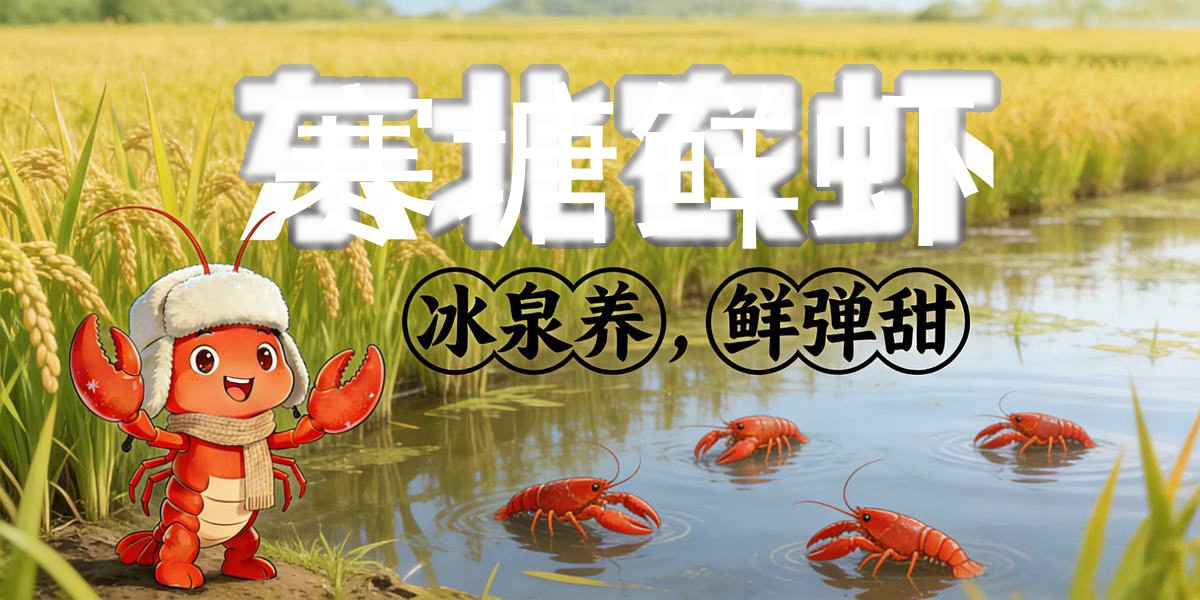
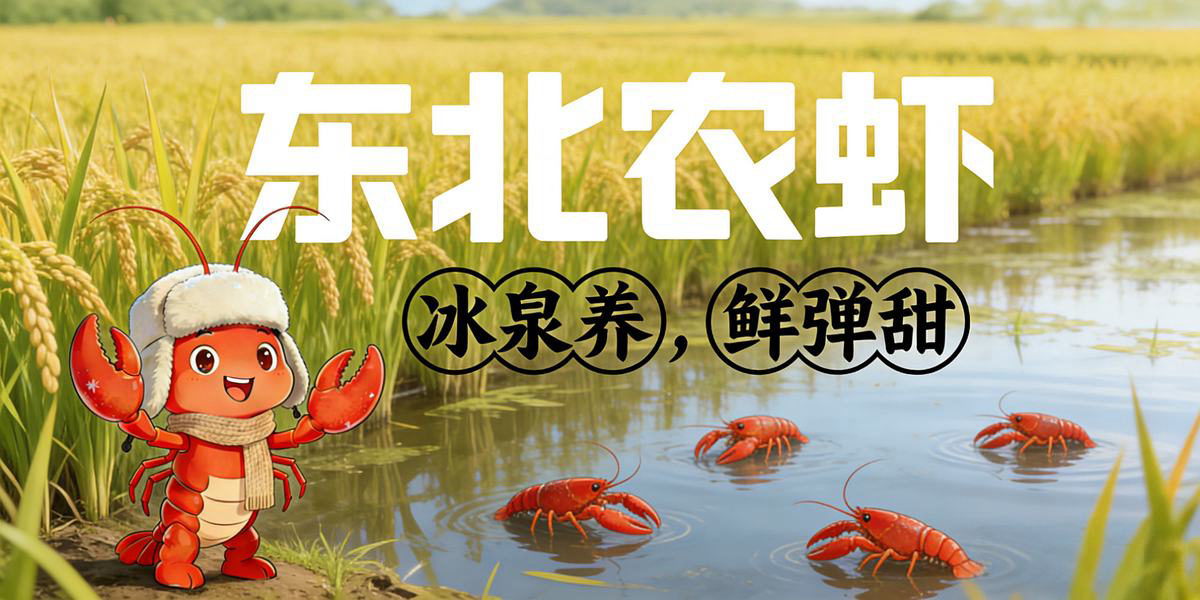
fix: 按优化方案3换回稻田广告横幅原图+CTA背景加暖色蒙版
- assets/banner-paddy.jpg: 换回6de500c原版(东北农虾原图),去掉重建版生硬白边标题
- css/brand.css: banner-strip 背景加暖色渐变蒙版,消除背景文字与前景内容重叠

Changed region(s): [[0.185, 0.09, 0.8325, 0.42]]

diff --git a/css/brand.css b/css/brand.css
@@ -858,7 +858,14 @@ table.brand .hl { color: var(--sun-deep); font-weight: 800; }
   overflow: hidden;
   background: var(--grad-sunrise);
 }
-.banner-strip img { position: absolute; inset: 0; width: 100%; height: 100%; object-fit: cover; opacity: 0.55; mix-blend-mode: multiply; }
+.banner-strip img { position: absolute; inset: 0; width: 100%; height: 100%; object-fit: cover; opacity: 0.5; mix-blend-mode: multiply; }
+.banner-strip::after {
+  content: "";
+  position: absolute; inset: 0;
+  z-index: 1;
+  pointer-events: none;
+  background: linear-gradient(180deg, rgba(112,42,8,.5) 0%, rgba(142,62,14,.42) 50%, rgba(96,34,6,.55) 100%);
+}
 .banner-strip__content { position: relative; z-index: 2; }
 
 /* ---------- Logo 带 ---------- */
